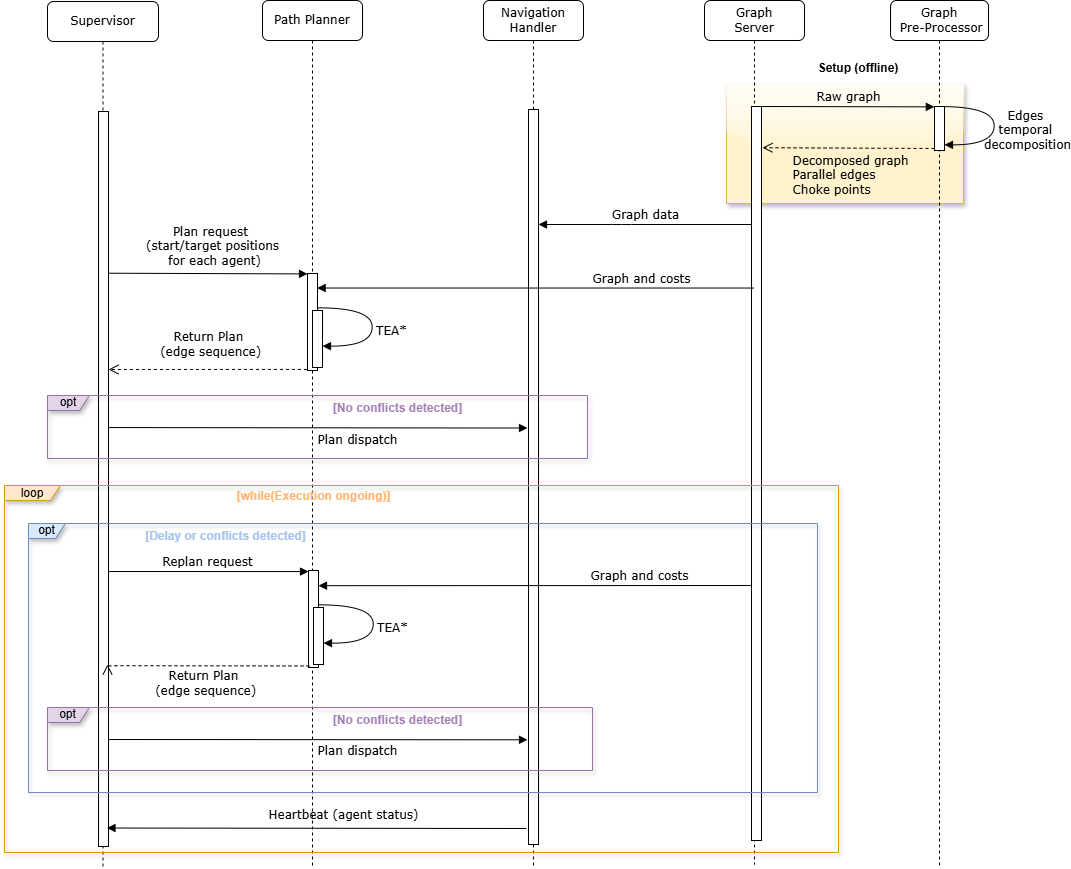
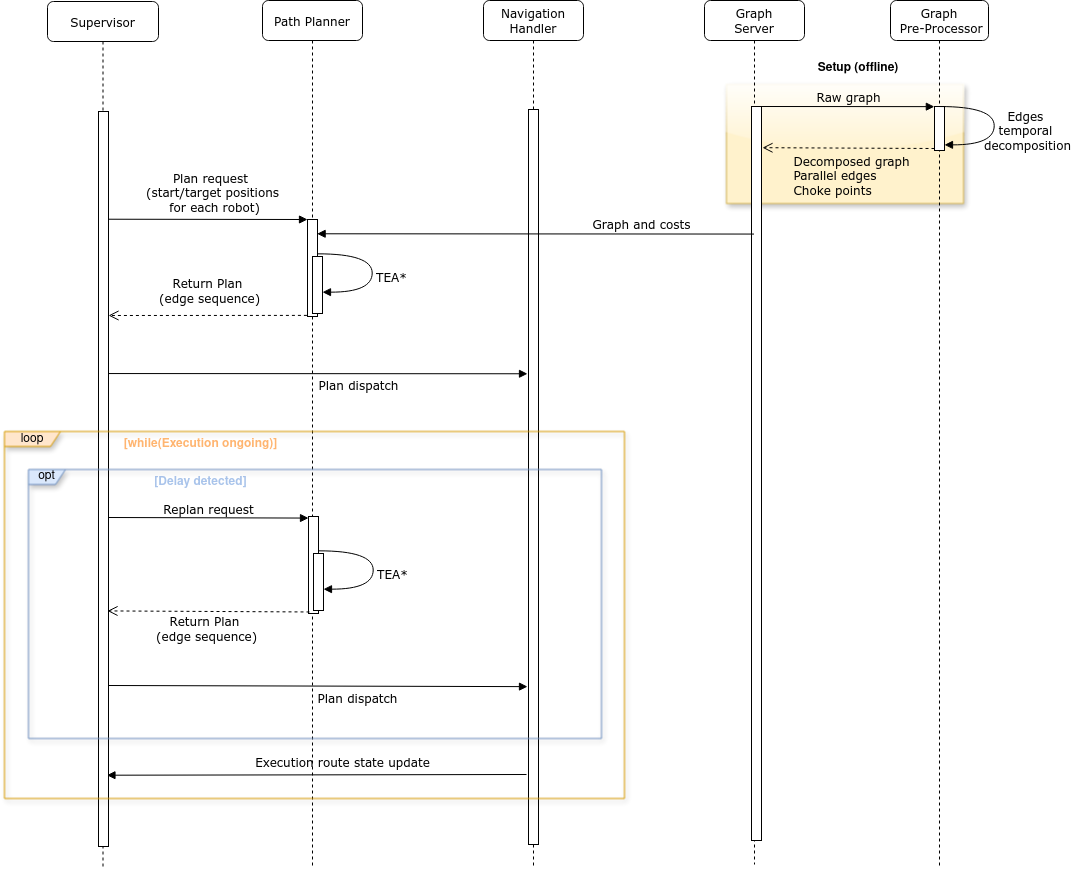
Seq Diagram minor fix; chap 6 name change

diff --git a/meec_distrib_latex/meec-distrib/chapters/6.heuristics_eval/sections/section1.tex b/meec_distrib_latex/meec-distrib/chapters/6.heuristics_eval/sections/section1.tex
@@ -135,7 +135,7 @@ measured planning and permutation computation times depend on the execution envi
 \midrule
 Operating system & Ubuntu 20.04.6 LTS \\
 CPU & AMD Ryzen 5 7535HS with Radeon Graphics \\
-CPU cores / threads & 6 cores / 12 threads \\
+CPU cores  & 6 cores \\
 RAM & 14 GiB \\
 ROS distribution & ROS Noetic \\
 Programming language & C++ \\
@@ -259,7 +259,7 @@ plan all robots in this scenario.
 \makecell{\textbf{Perm. time}\\\textbf{of total (\%)}} \\
 \midrule
 Conflicts & Less Conflicts First & 12/12 & 2.79 & 229.51 & +16.4 & 27.6 \\
-Conflicts & Less Time DoF Weighted Conflicts First & 12/12 & 3.26 & 213.65 & +22.2 & 32.3 \\
+\textbf{Conflicts} & \textbf{Less Time DoF Weighted Conflicts First} & \textbf{12/12} & \textbf{3.26} & \textbf{213.65} & \textbf{+22.2} & \textbf{32.3} \\
 Conflicts & More Conflicts First & 12/12 & 3.02 & 301.06 & -9.7 & 29.9 \\
 Conflicts & More Time DoF Weighted Conflicts First & 12/12 & 2.43 & 324.93 & -18.3 & 24.1 \\
 \addlinespace[2pt]
@@ -369,7 +369,7 @@ complete solutions, although the total cost varied considerably across priority 
 Conflicts & Less Conflicts First & 10/10 & 1.59 & 311.35 & -13.5 & 18.5 \\
 Conflicts & Less Time DoF Weighted Conflicts First & 10/10 & 1.00 & 315.61 & -15.0 & 11.8 \\
 Conflicts & More Conflicts First & 10/10 & 1.72 & 274.83 & -0.1 & 20.1 \\
-Conflicts & More Time DoF Weighted Conflicts First & 10/10 & 1.22 & 197.25 & +28.1 & 14.3 \\
+\textbf{Conflicts} & \textbf{More Time DoF Weighted Conflicts First} & \textbf{10/10} & \textbf{1.22} & \textbf{197.25} & \textbf{+28.1} & \textbf{14.3} \\
 \addlinespace[2pt]
 Topological & High Average DoF Path First & 10/10 & 4.79 & 198.70 & +27.6 & 41.4 \\
 Topological & Low Average DoF Path First & 10/10 & 4.37 & 254.30 & +7.3 & 37.7 \\
@@ -452,24 +452,24 @@ prioritizing the robot involved in more conflicts led to a substantially higher 
 \makecell{\textbf{Cost}\\\textbf{improv. (\%)}} &
 \makecell{\textbf{Perm. time}\\\textbf{of total (\%)}} \\
 \midrule
-Conflicts & Less Conflicts First & 6/6 & 0.23 & 12.39 & +74.0 & 5.5 \\
-Conflicts & Less Time DoF Weighted Conflicts First & 6/6 & 0.25 & 12.39 & +74.0 & 5.9 \\
+\textbf{Conflicts} & \textbf{Less Conflicts First} & \textbf{6/6} & \textbf{0.23} & \textbf{12.39} & \textbf{+74.0} & \textbf{5.5} \\
+\textbf{Conflicts} & \textbf{Less Time DoF Weighted Conflicts First} & \textbf{6/6} & \textbf{0.25} & \textbf{12.39} & \textbf{+74.0} & \textbf{5.9} \\
 Conflicts & More Conflicts First & 6/6 & 0.28 & 66.10 & -38.9 & 6.6 \\
 Conflicts & More Time DoF Weighted Conflicts First & 6/6 & 0.75 & 66.10 & -38.9 & 17.6 \\
 \addlinespace[2pt]
 Topological & High Average DoF Path First & 6/6 & 0.32 & 66.10 & -38.9 & 7.6 \\
-Topological & Low Average DoF Path First & 6/6 & 0.33 & 12.39 & +74.0 & 7.7 \\
+\textbf{Topological} & \textbf{Low Average DoF Path First} & \textbf{6/6} & \textbf{0.33} & \textbf{12.39} & \textbf{+74.0} & \textbf{7.7} \\
 Topological & Low DoF Sum First & 6/6 & 0.26 & 49.44 & -3.9 & 6.1 \\
 Topological & Low DoF Sum Last & 6/6 & 0.26 & 49.44 & -3.9 & 6.0 \\
 \addlinespace[2pt]
 Roadmap dist. & Furthest Robot First & 6/6 & 0.03 & 65.71 & -38.0 & 0.7 \\
-Roadmap dist. & Furthest Robot Last & 6/6 & 0.01 & 12.39 & +74.0 & 0.3 \\
+\textbf{Roadmap dist.} & \textbf{Furthest Robot Last} & \textbf{6/6} & \textbf{0.01} & \textbf{12.39} & \textbf{+74.0} & \textbf{0.3} \\
 Roadmap dist. & Longest Path First & 6/6 & 0.14 & 65.71 & -38.0 & 3.4 \\
 Roadmap dist. & Longest Path Last & 6/6 & 0.31 & 28.39 & +40.4 & 7.3 \\
 \addlinespace[2pt]
-Surroundings (goal) & High Cluster Central Goal First & 6/6 & 0.02 & 12.39 & +74.0 & 0.4 \\
-Surroundings (goal) & High Density Goals First & 6/6 & 0.05 & 12.39 & +74.0 & 1.1 \\
-Surroundings (goal) & High Radius Density Goals First & 6/6 & 0.06 & 12.39 & +74.0 & 1.3 \\
+\textbf{Surroundings (goal)} & \textbf{High Cluster Central Goal First} & \textbf{6/6} & \textbf{0.02} & \textbf{12.39} & \textbf{+74.0} & \textbf{0.4} \\
+\textbf{Surroundings (goal)} & \textbf{High Density Goals First} & \textbf{6/6} & \textbf{0.05} & \textbf{12.39} & \textbf{+74.0} & \textbf{1.1} \\
+\textbf{Surroundings (goal)} & \textbf{High Radius Density Goals First} & \textbf{6/6} & \textbf{0.06} & \textbf{12.39} & \textbf{+74.0} & \textbf{1.3} \\
 \addlinespace[2pt]
 Surroundings (pos) & High Cluster Peripheral First & 6/6 & 0.02 & 65.71 & -38.0 & 0.4 \\
 Surroundings (pos) & Low Density Positions First & 6/6 & 0.06 & 49.44 & -3.9 & 1.3 \\
@@ -562,7 +562,7 @@ Conflicts & More Conflicts First & 7/8 & 1.88 & $\infty$ & --- & 24.5 \\
 Conflicts & More Time DoF Weighted Conflicts First & 7/8 & 2.65 & $\infty$ & --- & 34.6 \\
 \addlinespace[2pt]
 Topological & High Average DoF Path First & 7/8 & 3.58 & $\infty$ & --- & 41.6 \\
-Topological & Low Average DoF Path First & 8/8 & 3.76 & 107.28 & +12.6 & 43.7 \\
+\textbf{Topological} & \textbf{Low Average DoF Path First} & \textbf{8/8} & \textbf{3.76} & \textbf{107.28} & \textbf{+12.6} & \textbf{43.7} \\
 Topological & Low DoF Sum First & 8/8 & 3.66 & 136.46 & -11.2 & 42.6 \\
 Topological & Low DoF Sum Last & 7/8 & 2.85 & $\infty$ & --- & 33.1 \\
 \addlinespace[2pt]
@@ -677,7 +677,7 @@ Topological & Low DoF Sum First & 11/12 & 2.71 & $\infty$ & --- & 17.1 \\
 Topological & Low DoF Sum Last & 11/12 & 3.01 & $\infty$ & --- & 19.0 \\
 \addlinespace[2pt]
 Roadmap dist. & Furthest Robot First & 12/12 & 0.06 & 319.61 & -12.6 & 0.4 \\
-Roadmap dist. & Furthest Robot Last & 12/12 & 0.17 & 206.43 & +27.3 & 1.2 \\
+\textbf{Roadmap dist.} & \textbf{Furthest Robot Last} & \textbf{12/12} & \textbf{0.17} & \textbf{206.43} & \textbf{+27.3} & \textbf{1.2} \\
 Roadmap dist. & Longest Path First & 12/12 & 1.53 & 359.68 & -26.7 & 10.4 \\
 Roadmap dist. & Longest Path Last & 11/12 & 1.47 & $\infty$ & --- & 10.0 \\
 \addlinespace[2pt]
@@ -769,7 +769,7 @@ average of \(172.9\) robots, none of the generated permutations was sufficient t
 \makecell{\textbf{Best}\\\textbf{heuristic}} \\
 \midrule
 Baseline TEA* & 180 & 172.9/180 & 0/100 & $\infty$ & -- & -- \\
-Heuristic TEA* & 180 & 180/180 & 1/1 & 19944.65 & 0.1 & Low Density Positions First \\
+\textbf{Heuristic TEA*} & \textbf{180} & \textbf{180/180} & \textbf{1/1} & \textbf{19944.65} & \textbf{0.1} & \textbf{Low Density Positions First} \\
 \bottomrule
 \end{tabular}
 \end{table}
@@ -824,7 +824,7 @@ highlighting the limitations of random priority orderings in large-scale warehou
 \makecell{\textbf{Best}\\\textbf{heuristic}} \\
 \midrule
 Baseline TEA* & 180 & 179.3/180 & 54/100 & 19456.72 & -- & -- & -- \\
-Heuristic TEA* & 180 & 180/180 & 1/1 & 17354.28 & +10.8 & 1.3 & Less Conflicts First \\
+\textbf{Heuristic TEA*} & \textbf{180} & \textbf{180/180} & \textbf{1/1} & \textbf{17354.28} & \textbf{+10.8} & \textbf{1.3} & \textbf{Less Conflicts First} \\
 \bottomrule
 \end{tabular}
 \end{table}
@@ -878,7 +878,7 @@ priority assignments are not sufficient to resolve the complete large-scale plan
 \makecell{\textbf{Best}\\\textbf{heuristic}} \\
 \midrule
 Baseline TEA* & 180 & 175.3/180 & 0/100 & $\infty$ & -- & -- \\
-Heuristic TEA* & 180 & 180/180 & 1/1 & 11371.94 & 1.2 & Longest Path Last \\
+\textbf{Heuristic TEA*} & \textbf{180} & \textbf{180/180} & \textbf{1/1} & \textbf{11371.94} & \textbf{1.2} & \textbf{Longest Path Last} \\
 \bottomrule
 \end{tabular}
 \end{table}
@@ -910,8 +910,8 @@ complete solutions for all 180 robots, but with substantially higher total costs
 \makecell{\textbf{Perm. time}\\\textbf{of total (\%)}} \\
 \midrule
 High Cluster Central Goal First & 180/180 & 34899.40 & 0.0 \\
-High Density Goals First & 180/180 & 29958.06 & 0.1 \\
-High Radius Density Goals First & 180/180 & 29958.06 & 0.4 \\
+\textbf{High Density Goals First} & \textbf{180/180} & \textbf{29958.06} & \textbf{0.1} \\
+\textbf{High Radius Density Goals First} & \textbf{180/180} & \textbf{29958.06} & \textbf{0.4} \\
 \bottomrule
 \end{tabular}
 \end{table}

diff --git a/meec_distrib_latex/meec-distrib/chapters/6.heuristics_eval/heuristics_eval.tex b/meec_distrib_latex/meec-distrib/chapters/6.heuristics_eval/heuristics_eval.tex
@@ -1,4 +1,4 @@
-\chapter{Prioritization Heuristics Design and Development}
+\chapter{Experimental Evaluation of Prioritization Heuristics}
 \label{chap:ch6}
 \hspace{\parindent}
 This chapter evaluates the prioritization heuristics introduced in Chapter~\ref{chap:ch5} in an